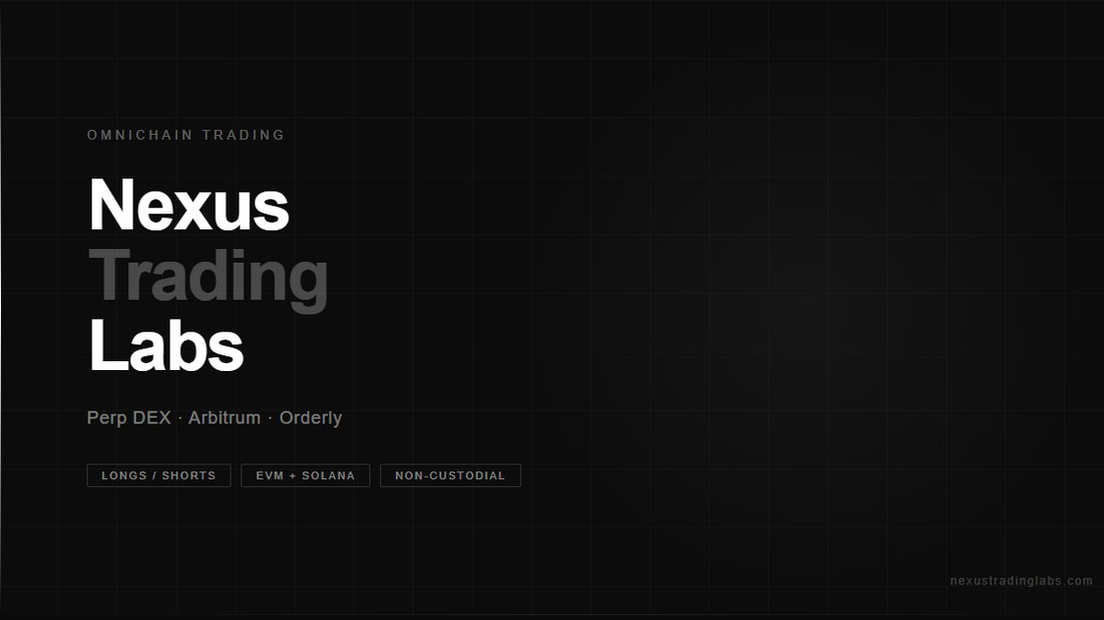
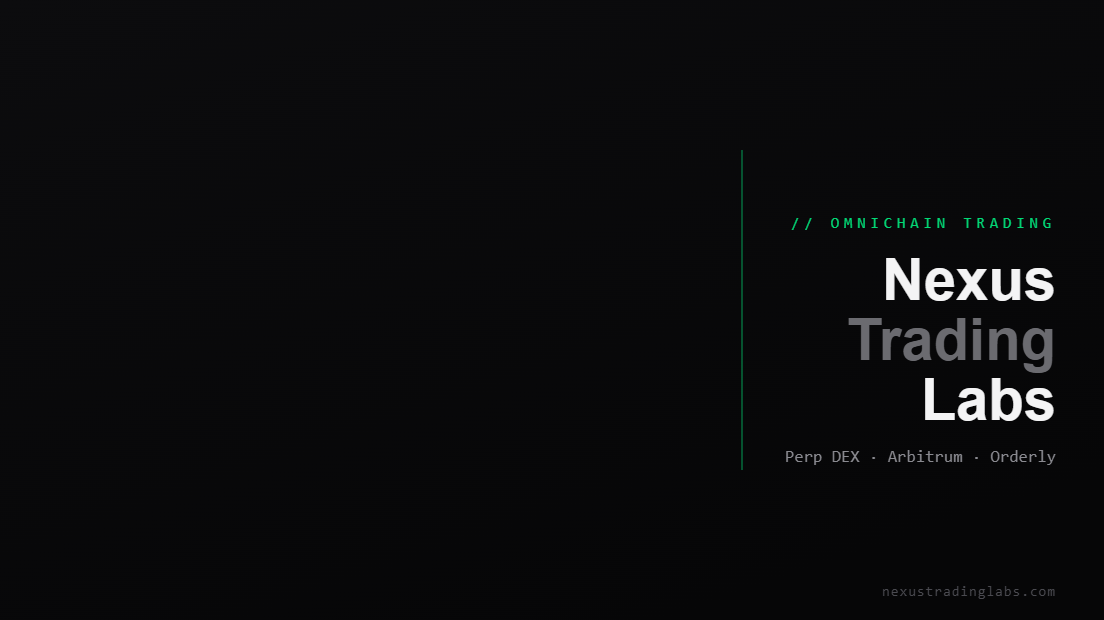
fix(pnl-poster): clear left for Orderly overlay + close two premium-feel gaps
The SDK portfolio share poster (poster_bg_1) had all its branding on the LEFT —
exactly where Orderly overlays the trade stats (LONG/%/prices/QR), so they
collided and garbled. Regenerated with the left two-thirds kept dark and the
Nexus wordmark + "// OMNICHAIN TRADING" + site moved to the right third behind a
green divider (1104×620, .webp used with custom posters on, .png fallback).

Plus the two gaps flagged earlier:
- SharePoster: "⧉ COPY IMAGE" copies the PNG to the clipboard (ClipboardItem)
  so it pastes straight into the X/Farcaster composer — closes the download→
  re-attach step in the viral loop. Falls back to download where unsupported.
- Command palette now reachable on mobile: the ⌘ chip renders on mobile too
  (36px tap target) since there's no keyboard shortcut there.

tsc clean, vite build green, palette + Lab verified error-free in preview;
new poster verified visually (left cleared, branding right).

diff --git a/app/pages/lab/SharePoster.tsx b/app/pages/lab/SharePoster.tsx
@@ -126,6 +126,7 @@ async function svgToPngBlob(svg: SVGSVGElement): Promise<Blob> {
 export function SharePoster({ data, onClose }: { data: PosterData; onClose: () => void }) {
   const svgRef = useRef<SVGSVGElement | null>(null);
   const [busy, setBusy] = useState(false);
+  const [copied, setCopied] = useState(false);
 
   const shareText = data.kind === "trade"
     ? `${asset(data.symbol)} ${data.direction} closed ${data.pnlPct != null ? `${data.pnlPct >= 0 ? "+" : ""}${data.pnlPct.toFixed(2)}%` : ""} — autonomous, on-chain-anchored. // Nexus Trading Labs`
@@ -149,6 +150,28 @@ export function SharePoster({ data, onClose }: { data: PosterData; onClose: () =
   const shareX = () => window.open(`https://twitter.com/intent/tweet?text=${encodeURIComponent(shareText)}&url=${encodeURIComponent(shareUrl)}`, "_blank", "noopener");
   const shareFc = () => window.open(`https://warpcast.com/~/compose?text=${encodeURIComponent(shareText + " " + shareUrl)}`, "_blank", "noopener");
 
+  // Copy the PNG to the clipboard so it can be pasted straight into the X /
+  // Farcaster composer — closes the "download then re-attach" gap. Falls back to
+  // a plain download where the async Clipboard image API isn't available.
+  const copyImage = async () => {
+    if (!svgRef.current) return;
+    setBusy(true);
+    try {
+      const blob = await svgToPngBlob(svgRef.current);
+      const CI = (window as unknown as { ClipboardItem?: typeof ClipboardItem }).ClipboardItem;
+      if (CI && navigator.clipboard && "write" in navigator.clipboard) {
+        await navigator.clipboard.write([new CI({ "image/png": blob })]);
+        setCopied(true);
+        setTimeout(() => setCopied(false), 2000);
+      } else {
+        const url = URL.createObjectURL(blob);
+        const a = document.createElement("a");
+        a.href = url; a.download = `nexus-${asset(data.symbol).toLowerCase()}-${data.kind}.png`; a.click();
+        setTimeout(() => URL.revokeObjectURL(url), 4000);
+      }
+    } catch { /* fail-soft */ } finally { setBusy(false); }
+  };
+
   const btn: React.CSSProperties = {
     fontFamily: "var(--nx-font-mono)", fontSize: 11, letterSpacing: "0.05em",
     padding: "8px 14px", borderRadius: 4, cursor: "pointer",
@@ -166,6 +189,7 @@ export function SharePoster({ data, onClose }: { data: PosterData; onClose: () =
         </div>
         <div style={{ display: "flex", gap: 8, padding: "0 16px 16px", flexWrap: "wrap", alignItems: "center" }}>
           <button onClick={download} disabled={busy} style={{ ...btn, color: "#ededf0", borderColor: "#ededf0" }}>{busy ? "RENDERING…" : "↓ DOWNLOAD PNG"}</button>
+          <button onClick={copyImage} disabled={busy} style={btn}>{copied ? "✓ COPIED" : "⧉ COPY IMAGE"}</button>
           <button onClick={shareX} style={btn}>SHARE TO 𝕏</button>
           <button onClick={shareFc} style={btn}>SHARE TO FARCASTER</button>
           <button onClick={onClose} style={{ ...btn, marginLeft: "auto", color: "#71717a" }}>CLOSE</button>

diff --git a/app/pages/lab/index.tsx b/app/pages/lab/index.tsx
@@ -169,18 +169,18 @@ export default function TheLabPage() {
             }}>{isMobile ? tab.short : tab.label}</button>
           ))}
         </div>
-        {!isMobile && (
-          <div style={{ display: "flex", alignItems: "center", gap: 12, flexShrink: 0, marginLeft: 8 }}>
-            <span
-              title="Command palette"
-              onClick={() => window.dispatchEvent(new KeyboardEvent("keydown", { key: "k", metaKey: true }))}
-              style={{ fontFamily: "var(--nx-font-mono)", fontSize: 9, color: "#52525b", border: "1px solid #232327", borderRadius: 3, padding: "2px 6px", cursor: "pointer", letterSpacing: "0.05em" }}
-            >⌘K</span>
+        <div style={{ display: "flex", alignItems: "center", gap: 12, flexShrink: 0, marginLeft: 8 }}>
+          <span
+            title="Command palette"
+            onClick={() => window.dispatchEvent(new KeyboardEvent("keydown", { key: "k", metaKey: true }))}
+            style={{ fontFamily: "var(--nx-font-mono)", fontSize: isMobile ? 12 : 9, color: "#52525b", border: "1px solid #232327", borderRadius: 3, padding: isMobile ? "6px 9px" : "2px 6px", cursor: "pointer", letterSpacing: "0.05em", minHeight: isMobile ? 36 : "auto", display: "flex", alignItems: "center" }}
+          >{isMobile ? "⌘" : "⌘K"}</span>
+          {!isMobile && (
             <span style={{ fontSize: 9, fontFamily: "var(--nx-font-mono)", letterSpacing: "0.1em", color: syncing ? "#fbbf24" : synced ? "#ededf0" : "#3a3a40", textShadow: synced ? "0 0 8px rgba(237,237,240,0.5)" : "none" }}>
               {syncing ? "⟳" : synced ? "●" : rootWalletAddress ? "○" : "○ CONNECT WALLET"}
             </span>
-          </div>
-        )}
+          )}
+        </div>
       </div>
       <div style={{ padding: isMobile ? 12 : 16 }}>
         <div style={{ marginBottom: 12 }}>
